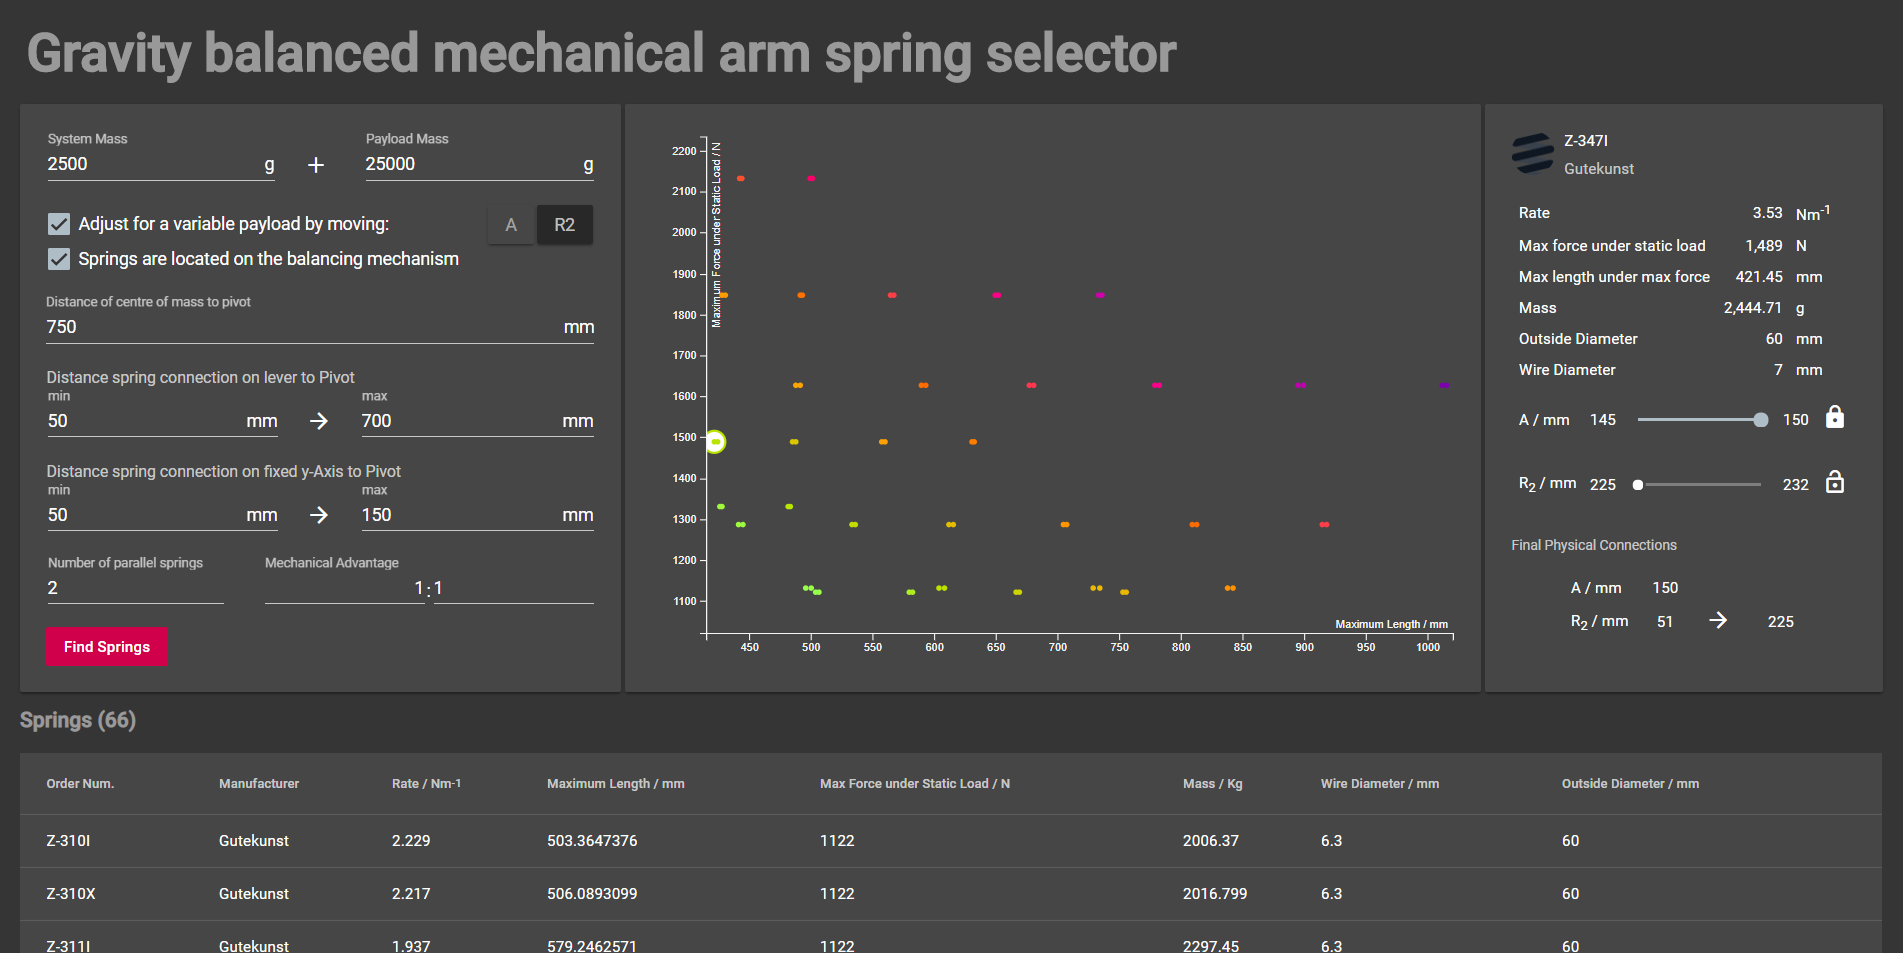
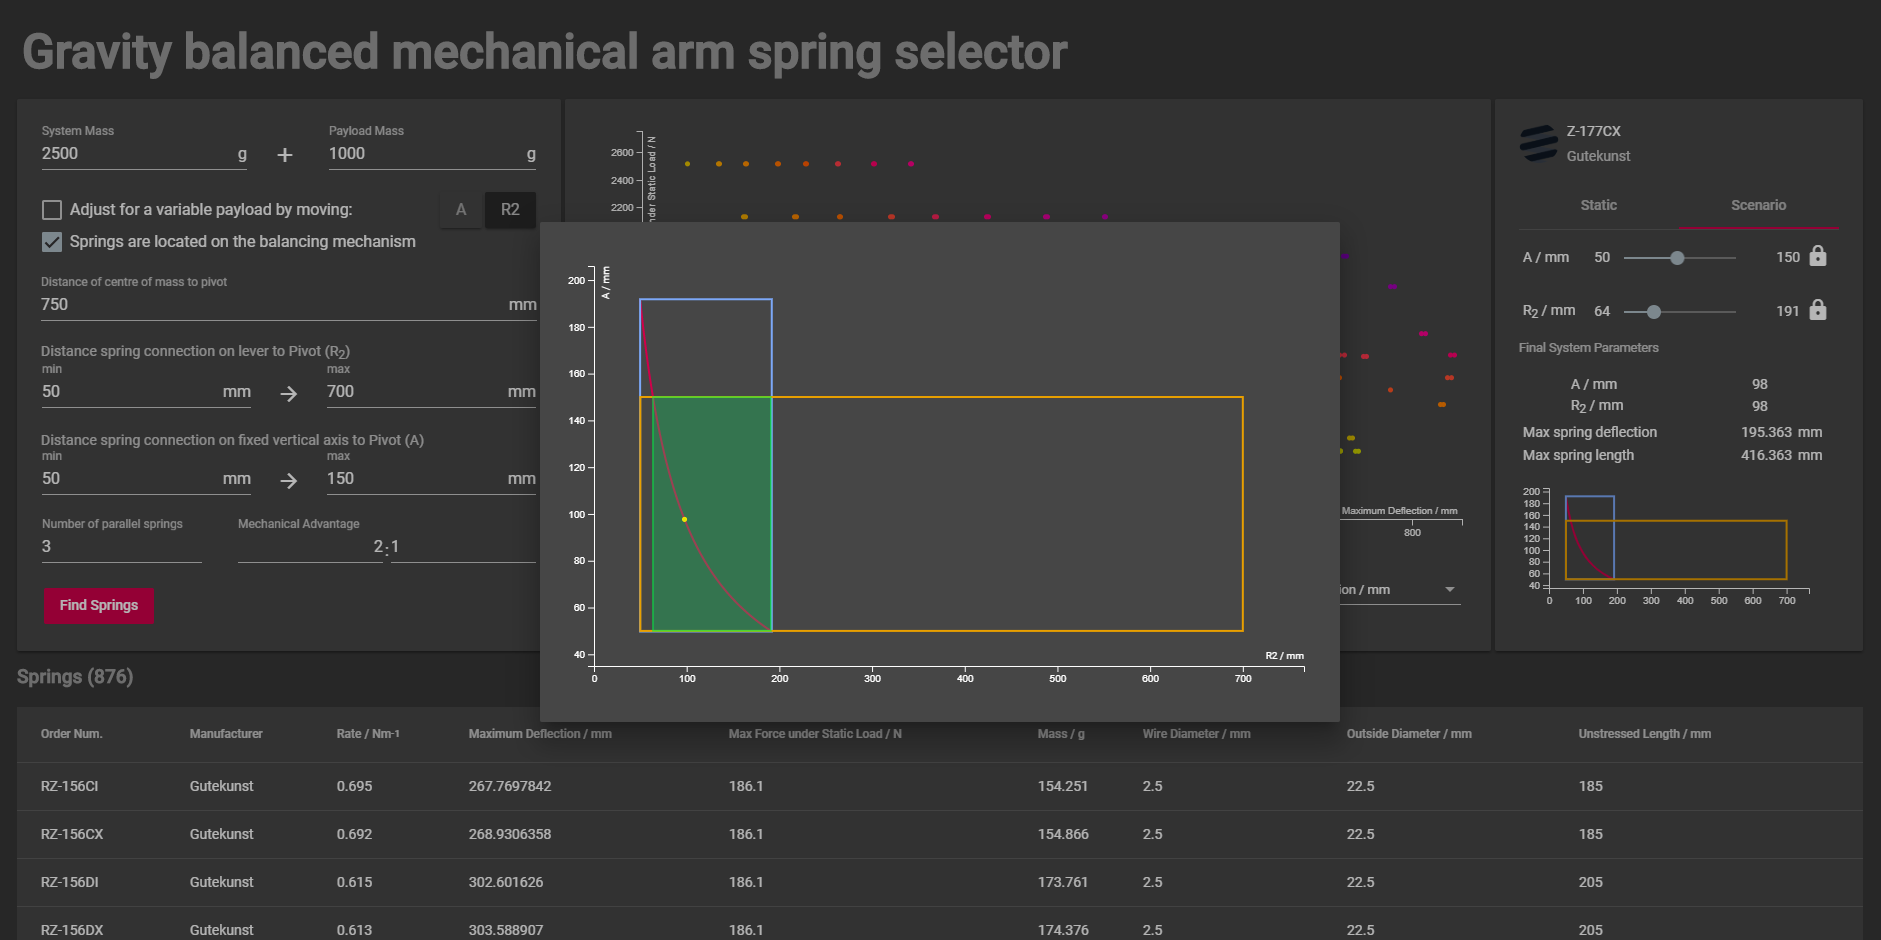
Added far more detail to Tool Usage

diff --git a/README.md b/README.md
@@ -3,7 +3,7 @@
 
 This repository contains of a small set of services that work together to provide an interface for selecting stock springs from a spring catalogue that will allow for the gravity balancing of a mechanical arm. This system is founded in earlier work done by Frank Beinersdorf with some minor functional expansions to allow for the spring mass to be included in the system mass and to allow for spring selections that can be used to balance variable payloads.
 
-![Screenshot](media/Screenshot.PNG)
+![General screenshot](media/Screenshot2.PNG)
 
 This project is part of wider work to design a template for a robotic arm to assist solo inventors in a workshop context, however, this tool can be used standalone for balancing any mechanical arm. It is assumed that the mechanical arm can be modelled such that it conforms to the general mechanical model shown below. Note that for a parallogram 4-bar linkage, the connection points for the spring will work on either of the horizontal bars and their respective vertical bars, as visualised by the dotted line in the diagram.
 
@@ -21,11 +21,30 @@ The tool reflects the mechanical structure shown using the following variables:
 | m<sub>p</sub> | Payload mass - the mass of the payload                                                               |
 | N             | The number of springs to be used                                                                     |
 
-If the arm is being designed to handle a variable payload then this needs to be taken in to account when selecting the spring(s) to balance it. For a spring-based gravity balancing mechanism there are two options for balancing a variable payload. Either the spring constant of the spring needs to change, or the connection points need to be moved based on the payload. It is impractical to physically swap the spring out during operation so it is assumed that balancing of a variable payload is achieved by moving one or both of the connection points, i.e. dynamically changing the distances A and R<sub>2</sub>.
-
 ## Tool Usage
 
-Note: The separation between m<sub>p</sub> and m<sub>s</sub> is only relevant for
+The basic usage flow is as follows:
+
+1. Put in the values for the variables outlined above into the Scenario Setup panel on the left of the tool and press the "Find Springs" button.
+2. This will populate the Spring List that occupies the bottom of the tool with all the springs that match the specified scenario. Similarly the same springs will also be populated in the chart.
+3. Selecting a spring in either the list or by clicking on it in the chart will bring up the details for that spring in the pop-up panel on the right.
+4. There are two tabs on the Spring Details panel. The "Static" tab shows the manufacturing details of the spring, i.e. those unaffected by the scenario the spring is being used in. More interestingly to the designer, the "Scenario" tab allows the designer to determine the connection points (A and R<sub>2</sub>) for the spring(s) in the design.
+
+**Note**: The separation between m<sub>p</sub> and m<sub>s</sub> is only relevant for systems where a variable payload is to be supported. In this case the system mass is assumed to be constant and the payload mass is assumed to vary between zero grams and the specific payload mass.
+
+**Note**: Please note that, as the tooltip states, the checkbox allowing for a system design where the spring is essentially also balancing it's own mass will result in a system that doesn't perfectly balance at all pivot angles. This is because the centre of mass of the spring will change change as it stretches which will therefore also affect the force that needs to be applied to balance the system. This is a non-linear behaviour that cannot be accounted for in a design that uses springs to balance. This may well be an error that you choose to accept in the design of your system however and can probably be adequately compensated for simply by intentionally introducing some friction in to the rotation of the pivot. 
+
+### Variable Payload Design
+
+If the arm is being designed to handle a variable payload then this needs to be taken in to account when selecting the spring(s) to balance it. For a spring-based gravity balancing mechanism there are two options for balancing a variable payload. Either the spring constant of the spring needs to change, or the connection points need to be moved based on the payload. It is impractical to physically swap the spring out during operation so it is assumed that balancing of a variable payload is achieved by moving one or both of the connection points, i.e. dynamically changing the distances A and R<sub>2</sub>.
+
+### Understanding the spring fit
+
+To better understand how the spring fits the mechanical scenario outlined, a chart is available on the Spring Detail -> Scenario tab. Clicking on the chart will provide an enlarged version such as the one shown in the screenshot below.
+
+![Screenshot showing connection point chart](media/Screenshot.PNG)
+
+This chart shows the spring's behaviour as a function of it's connection points with the rectangles showing the bounds for allowed values of A and R<sub>2</sub> and those that the spring could theoretically manage. The intersection of these rectangles, limited by the function shown, gives the range of possible values for A and R<sub>2</sub> that are possible for your system which will correspond to the slider ranges you can move on the Spring Detail -> Scenario tab.
 
 ## Project Usage
 
